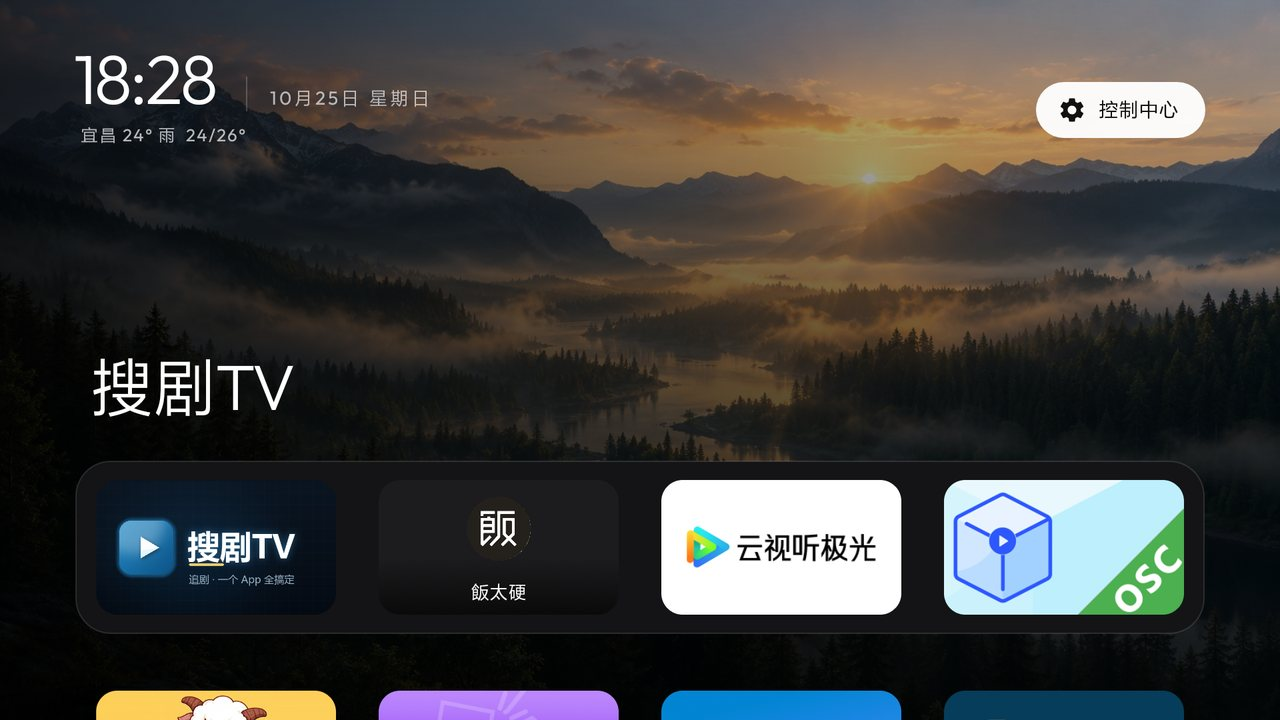
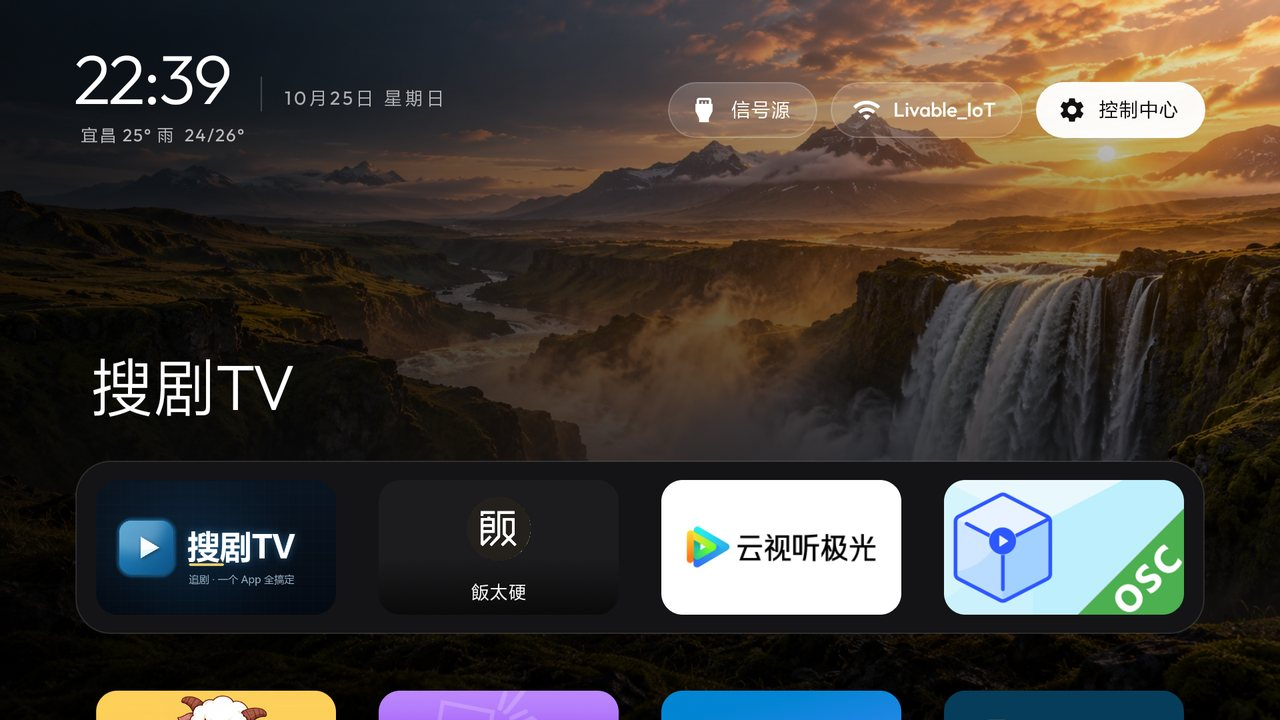
4.0.2：壁纸与屏保改成标签页，重拍桌面/控制中心/壁纸页/屏保页截图

diff --git a/index.html b/index.html
@@ -55,7 +55,7 @@
   <div class="wrap">
     <div class="head">
       <h2>安静，<br>是最好的界面。</h2>
-      <p>所有功能收进一个控制中心，桌面上只留你每天要看的东西。</p>
+      <p>常用功能固定在右上角，其余收进控制中心，桌面上只留你每天要看的东西。</p>
     </div>
 
     <div class="grid">
@@ -65,7 +65,7 @@
       </article>
       <article class="card">
         <h3>控制中心</h3>
-        <p>右上角一个按钮：信号源、网络、系统设置、桌面设置、屏保、壁纸、内存清理、检查更新、关于。</p>
+        <p>信号源和网络常驻右上角，点开就用；面板里六个入口：系统设置、桌面设置、内存清理、壁纸与屏保、检查更新、关于。</p>
       </article>
       <article class="card">
         <h3>11 张内置壁纸</h3>
@@ -95,20 +95,24 @@
     </div>
     <div class="shots">
       <figure>
-        <img src="img/control-center.jpg" alt="控制中心：九宫格入口与版本号" loading="lazy" width="1280" height="720">
+        <img src="img/control-center.jpg" alt="控制中心：六个入口与版本号" loading="lazy" width="1280" height="720">
         <figcaption>控制中心</figcaption>
       </figure>
       <figure>
-        <img src="img/wallpaper.jpg" alt="壁纸页：四列缩略图与分组" loading="lazy" width="1280" height="720">
-        <figcaption>壁纸选择</figcaption>
+        <img src="img/wallpaper.jpg" alt="壁纸与屏保：顶部壁纸与屏保两个标签，壁纸页四列缩略图" loading="lazy" width="1280" height="720">
+        <figcaption>壁纸与屏保 · 壁纸页</figcaption>
       </figure>
       <figure>
-        <img src="img/settings.jpg" alt="桌面设置：布局、外观、时间与天气" loading="lazy" width="1280" height="720">
+        <img src="img/wallpaper-saver.jpg" alt="壁纸与屏保：屏保页的时间与必应每日两张卡片、屏保开关与换图间隔" loading="lazy" width="1280" height="720">
+        <figcaption>壁纸与屏保 · 屏保页</figcaption>
+      </figure>
+      <figure>
+        <img src="img/settings.jpg" alt="桌面设置：布局、时间与天气、动效" loading="lazy" width="1280" height="720">
         <figcaption>桌面设置</figcaption>
       </figure>
       <figure>
-        <img src="img/wallpaper-page.jpg" alt="壁纸页全貌" loading="lazy" width="1280" height="720">
-        <figcaption>壁纸页全貌</figcaption>
+        <img src="img/home.jpg" alt="桌面：右上角信号源、网络、控制中心" loading="lazy" width="1280" height="720">
+        <figcaption>桌面</figcaption>
       </figure>
     </div>
   </div>
